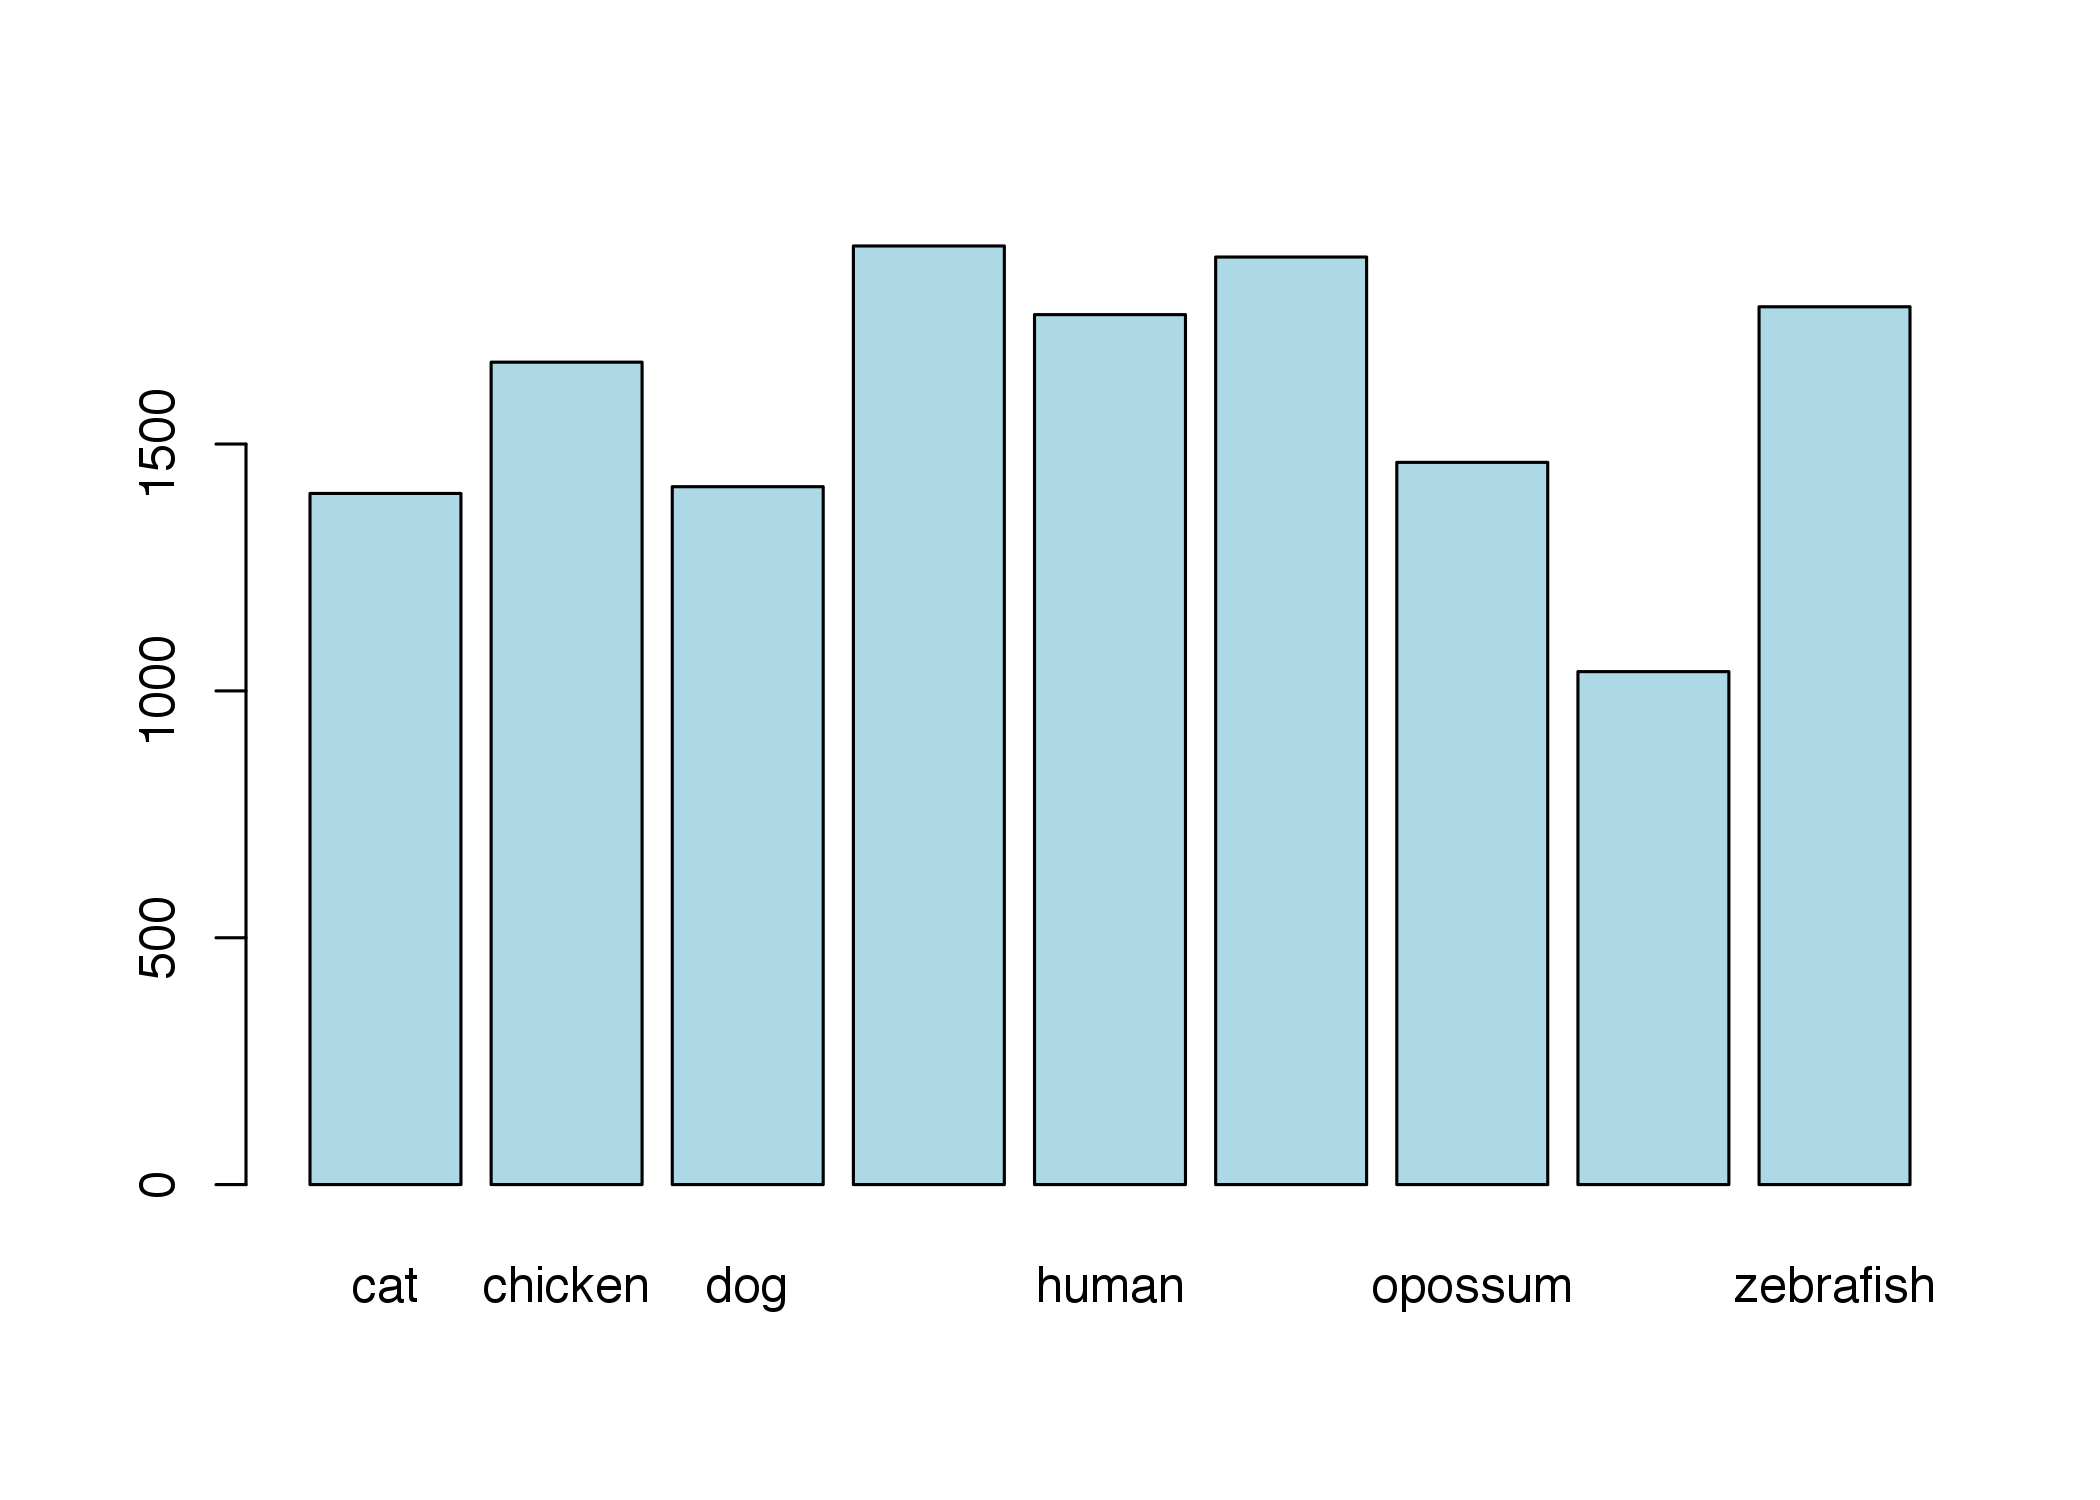
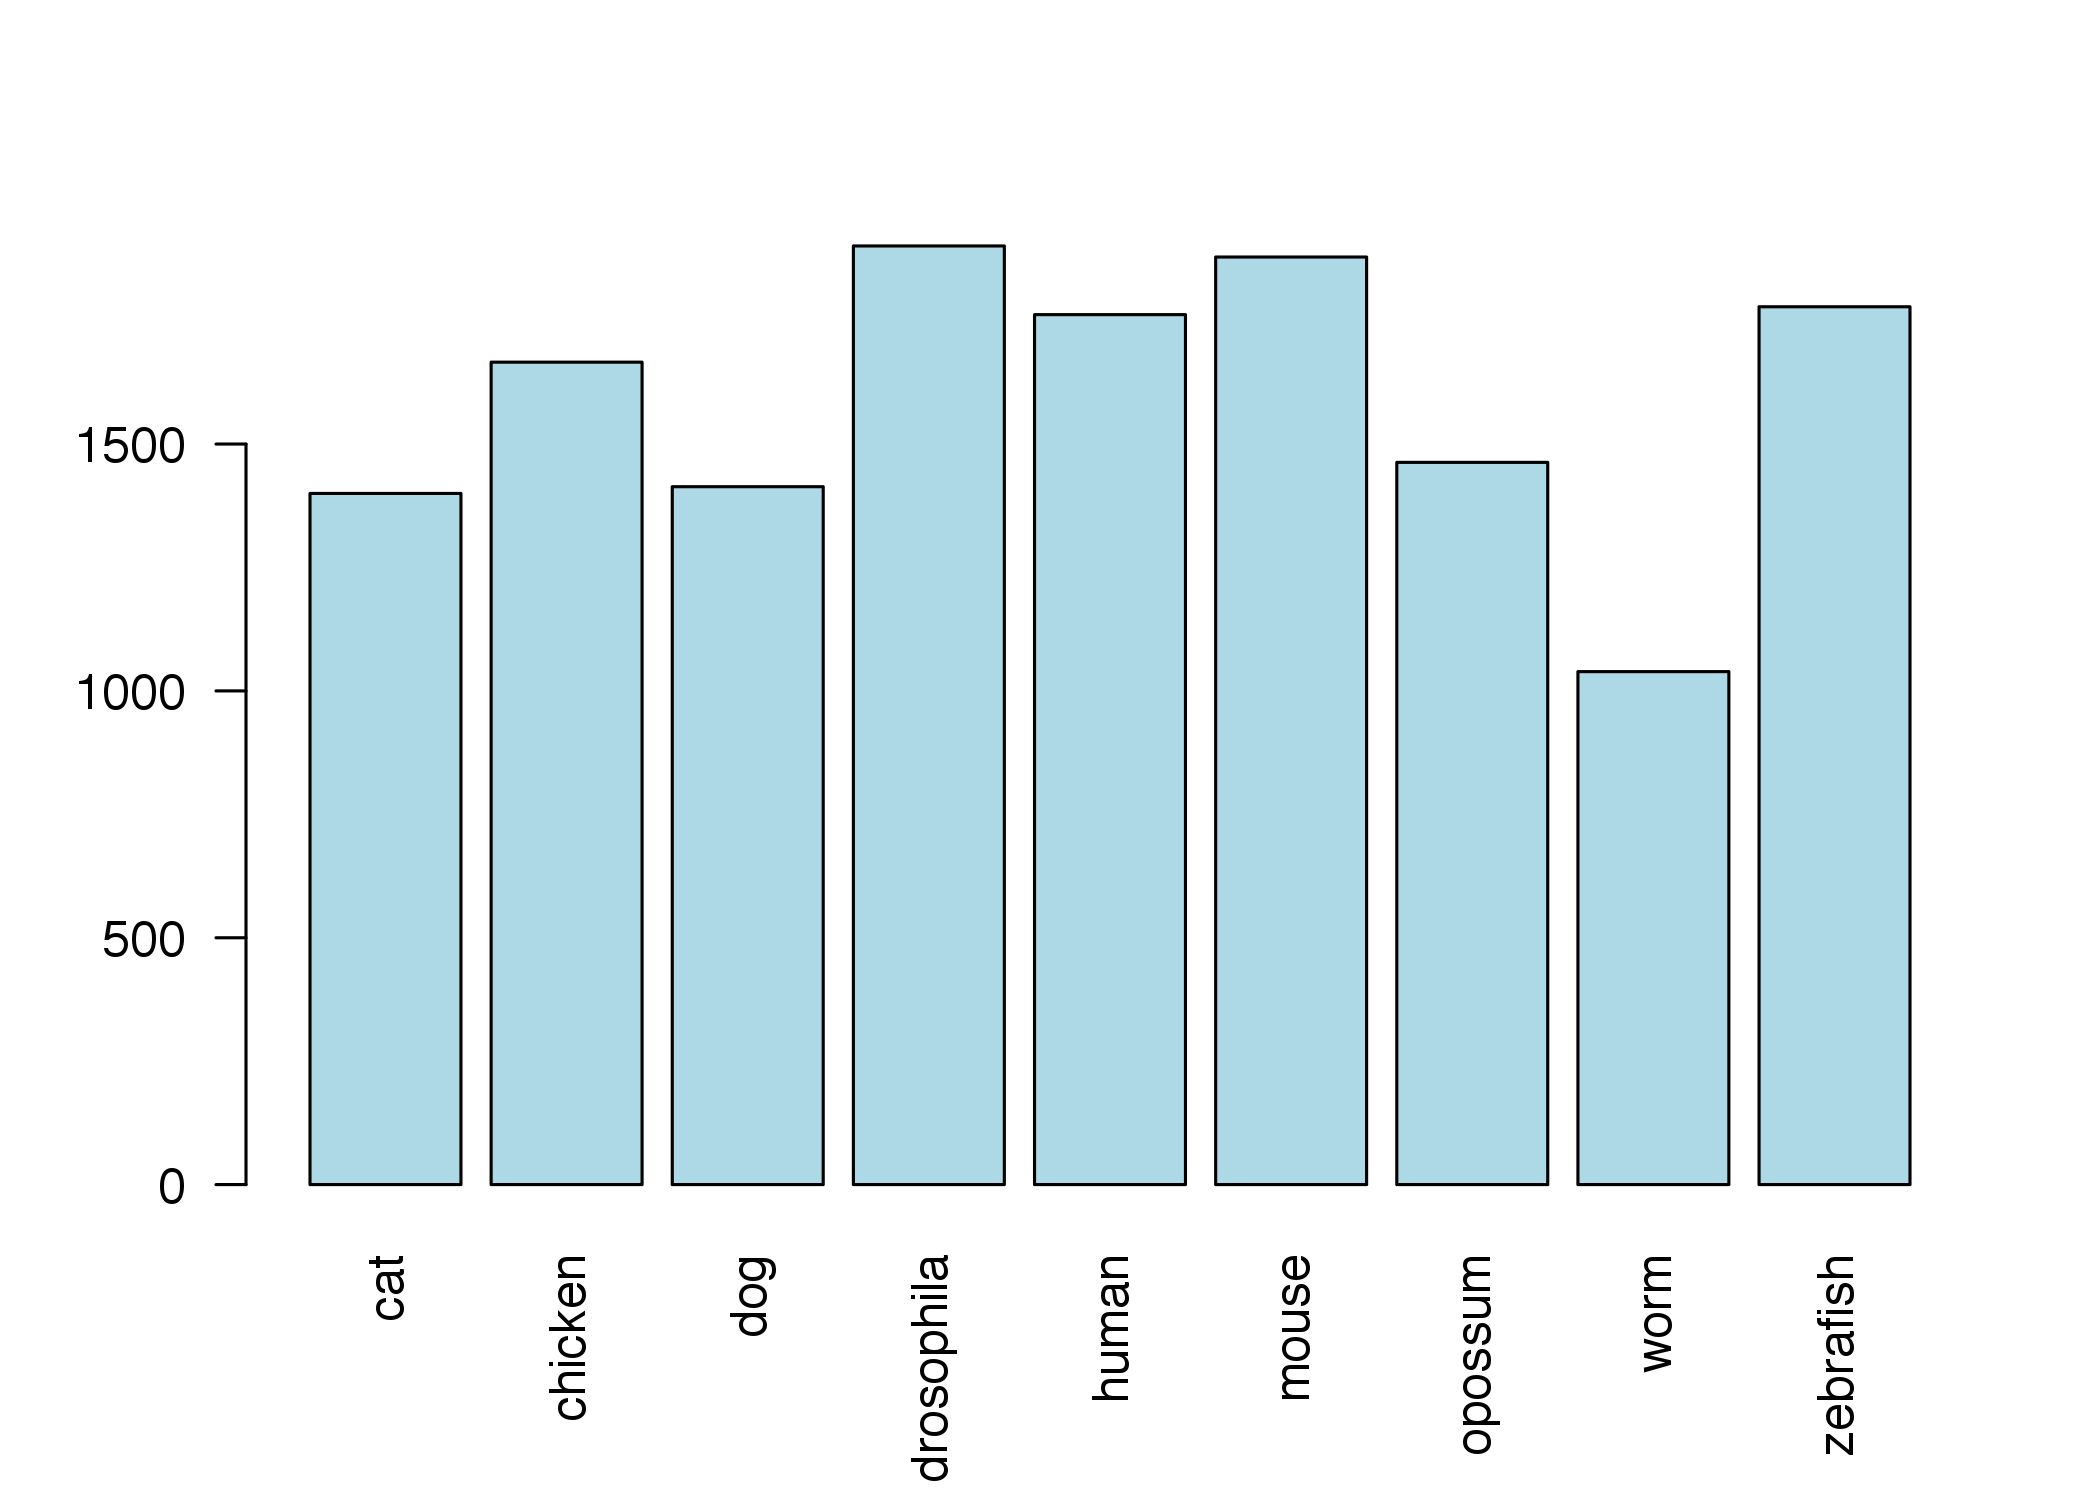
Fixed Plot

diff --git a/WTAC_Transcriptomics_2018/Intro_R/Intro_R_Practical.md b/WTAC_Transcriptomics_2018/Intro_R/Intro_R_Practical.md
@@ -1,6 +1,6 @@
 Introduction to R
 ================
-Anton Enright & Dimitrios Vitsios
+Anton Enright & Jack Monahan
 '21 June, 2018'
 
 -   [About R](#about-r)
@@ -412,7 +412,7 @@ A data frame can be considered as a simple table. How do we add a new column? Le
 ``` r
 genomes$Average.transcript.length <- genomes$Transcripts.length/genomes$Transcripts
 
-barplot(genomes$Average.transcript.length, names.arg=rownames(genomes), col="lightblue")
+barplot(genomes$Average.transcript.length, names.arg=rownames(genomes), col="lightblue",las=2)
 ```
 
 ![](Intro_R_Practical_files/figure-markdown_github/unnamed-chunk-22-1.png)
